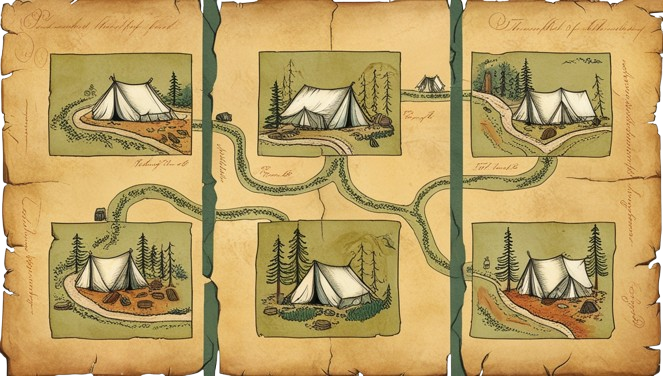
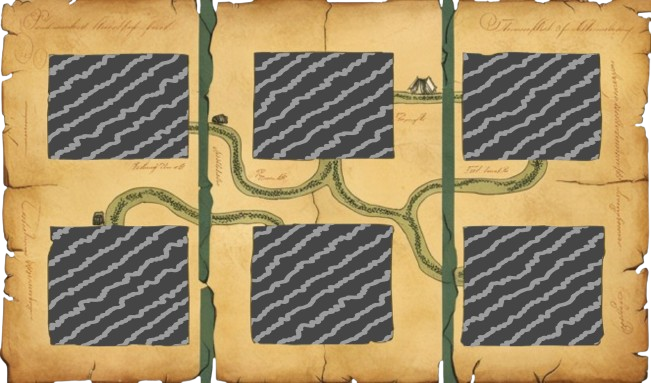
Add buttons for missions on map

diff --git a/src/ui/rooms/command_room/map_on_table.rs b/src/ui/rooms/command_room/map_on_table.rs
@@ -46,25 +46,12 @@ pub fn map_on_table(
                         // Generate buttons for each mission
                         for mission in missions.iter().filter(|mission| mission.unlocked) {
                             if mission.recruit_send.is_none() {
-                                map.spawn(CustomButton::Primary.bundle(my_assets))
-                                    .insert(UniqueId("select_mission_button".to_string()))
-                                    .insert(mission.clone())
-                                    .with_children(|button| {
-                                        button.spawn(TextBundle {
-                                            text: Text::from_section(
-                                                format!(
-                                                    "Mission {}: Level {}",
-                                                    mission.name, mission.level
-                                                ),
-                                                TextStyle {
-                                                    font: my_assets.fira_sans_bold.clone(),
-                                                    font_size: 16.0,
-                                                    color: Color::WHITE,
-                                                },
-                                            ),
-                                            ..default()
-                                        });
-                                    });
+                                map.spawn(
+                                    CustomButton::MissionOnMap
+                                        .mission_bundle(my_assets, mission.id),
+                                )
+                                .insert(UniqueId("select_mission_button".to_string()))
+                                .insert(mission.clone());
                             } else {
                                 map.spawn(CustomButton::Primary.bundle(my_assets))
                                     .with_children(|button| {

diff --git a/src/custom_components.rs b/src/custom_components.rs
@@ -12,6 +12,7 @@ pub enum CustomButton {
     SquareIcon,
     EarnGold,
     MissionStart,
+    MissionOnMap,
 }
 
 impl CustomButton {
@@ -101,6 +102,44 @@ impl CustomButton {
                 border_radius: BorderRadius::all(Val::Px(10.)),
                 ..default()
             },
+            _ => panic!("The mission button has to be called in the mission_bundle method"),
         }
+    }
+
+    pub fn mission_bundle(&self, my_assets: &Res<MyAssets>, mission_id: u16) -> ButtonBundle {
+        let mission_image = my_assets.get_mission_image(mission_id);
+        let mission_position = get_mission_position(mission_id);
+
+        match self {
+            CustomButton::MissionOnMap => ButtonBundle {
+                style: Style {
+                    position_type: PositionType::Absolute,
+                    left: Val::Px(mission_position.0),
+                    top: Val::Px(mission_position.1),
+                    justify_self: JustifySelf::Center,
+                    align_self: AlignSelf::Center,
+                    width: Val::Px(130.),
+                    height: Val::Px(130.),
+                    border: UiRect::all(Val::Px(2.)),
+                    ..default()
+                },
+                image: mission_image.clone().into(),
+                border_color: BorderColor(Color::BLACK),
+                border_radius: BorderRadius::all(Val::Px(10.)),
+                ..default()
+            },
+            _ => panic!("This button is not a mission on map button"),
+        }
+    }
+}
+
+pub fn get_mission_position(mission_id: u16) -> (f32, f32) {
+    match mission_id {
+        1 => (0., 0.),
+        2 => (0., 150.),
+        3 => (0., 300.),
+        4 => (0., 450.),
+        5 => (150., 0.),
+        _ => panic!("Mission id not found"),
     }
 }

diff --git a/src/ui/interface/gold_counter.rs b/src/ui/interface/gold_counter.rs
@@ -116,6 +116,20 @@ pub struct MyAssets {
     // --- Maps --- //
     #[asset(path = "images/maps/map_tuto.png")]
     pub map_tuto: Handle<Image>,
+
+    // --- Missions --- //
+    #[asset(path = "images/missions/c1_mission_1.png")]
+    pub c1_mission_1: Handle<Image>,
+    #[asset(path = "images/missions/c1_mission_2.png")]
+    pub c1_mission_2: Handle<Image>,
+    #[asset(path = "images/missions/c1_mission_3.png")]
+    pub c1_mission_3: Handle<Image>,
+    #[asset(path = "images/missions/c1_mission_4.png")]
+    pub c1_mission_4: Handle<Image>,
+    #[asset(path = "images/missions/c1_mission_5.png")]
+    pub c1_mission_5: Handle<Image>,
+    #[asset(path = "images/missions/c1_mission_6.png")]
+    pub c1_mission_6: Handle<Image>,
 }
 
 impl MyAssets {
@@ -154,6 +168,18 @@ impl MyAssets {
     pub fn get_image_map(&self, map_enum: MapImageEnum) -> Handle<Image> {
         return match map_enum {
             MapImageEnum::CampagnTuto => self.map_tuto.clone(),
+        };
+    }
+
+    pub fn get_mission_image(&self, mission_id: u16) -> Handle<Image> {
+        return match mission_id {
+            1 => self.c1_mission_1.clone(),
+            2 => self.c1_mission_2.clone(),
+            3 => self.c1_mission_3.clone(),
+            4 => self.c1_mission_4.clone(),
+            5 => self.c1_mission_5.clone(),
+            6 => self.c1_mission_6.clone(),
+            _ => self.c1_mission_1.clone(),
         };
     }
 }

diff --git a/src/systems/updates/command_room/select_mission_button.rs b/src/systems/updates/command_room/select_mission_button.rs
@@ -3,7 +3,7 @@ use crate::{
         general_structs::{MissionModalVisible, UniqueId},
         missions::{Mission, Missions, SelectedMission},
     },
-    systems::systems_constants::{HOVERED_BUTTON, NORMAL_BUTTON},
+    systems::systems_constants::NORMAL_BUTTON,
 };
 use bevy::prelude::*;
 
@@ -41,7 +41,7 @@ pub fn select_mission_button(
                     }
                     Interaction::Hovered => {
                         window.cursor.icon = CursorIcon::Pointer;
-                        *color = HOVERED_BUTTON.into();
+                        *color = Color::WHITE.into();
                     }
                     Interaction::None => {
                         window.cursor.icon = CursorIcon::Default;
